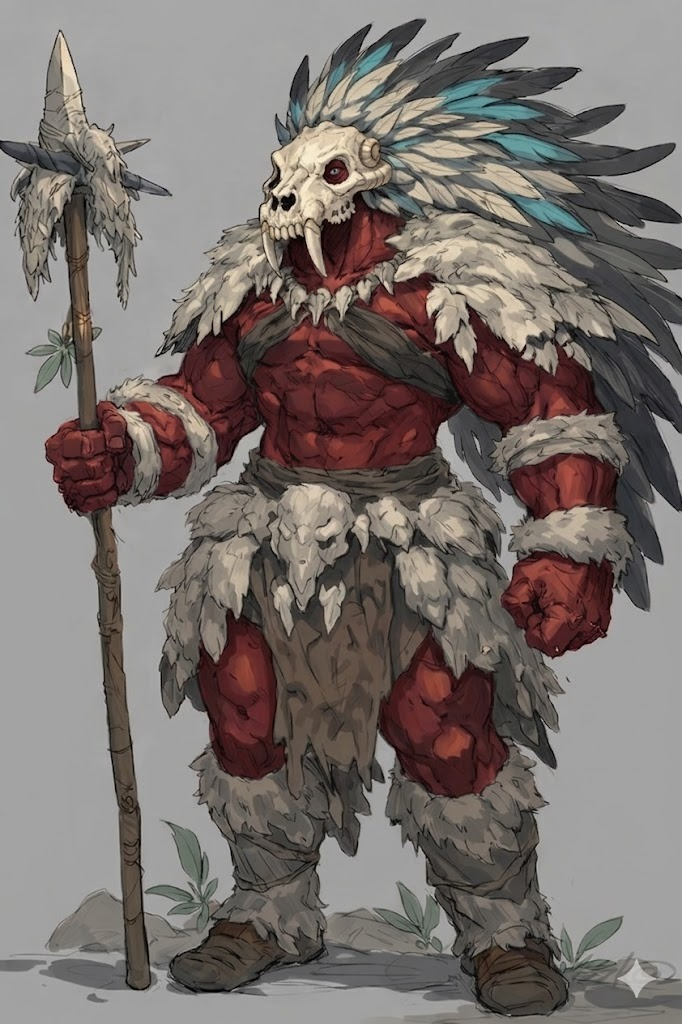
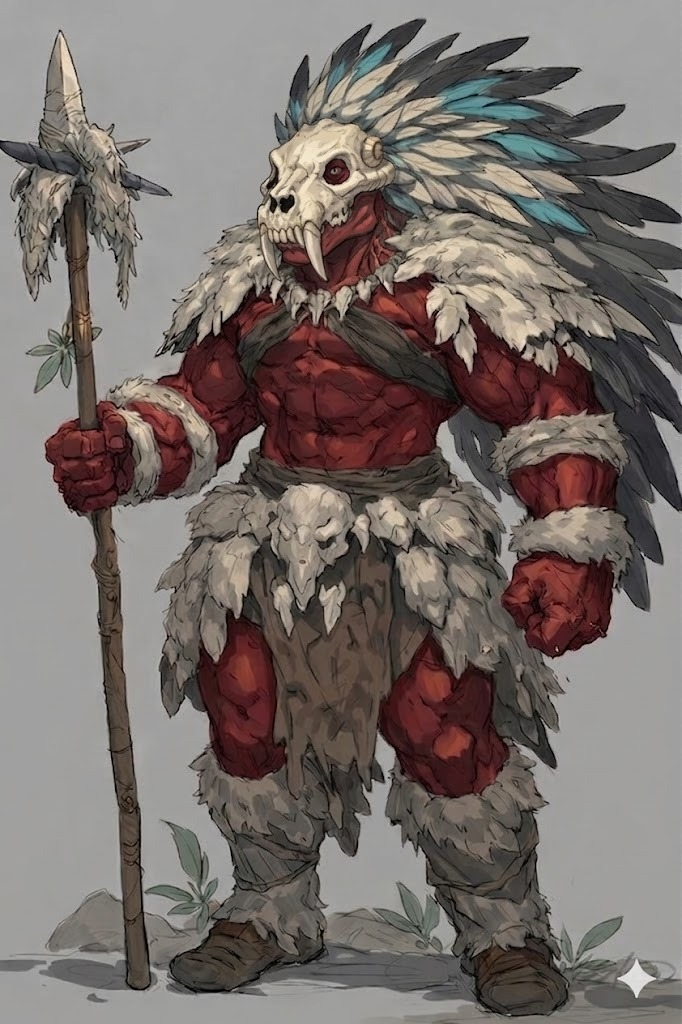
Update Eliseu and Mim sheets

Changed region(s): [[0.3695, 0.0625, 0.6158, 0.3125], [0.893, 0.9375, 0.9545, 0.9688]]

diff --git a/eliseu/ELISEU.md b/eliseu/ELISEU.md
@@ -36,60 +36,47 @@ Mas para buscar aquilo que lhe faltava. Amigos. Parceiros. Meio igual a meio. E 
 # 📌 **INFORMAÇÕES DO PERSONAGEM**
 
 **Nome:** Eliseu Babosa
-
 **[Raça](https://www.dandwiki.com/wiki/Minor_Angel_(5e_Race)):** Anjo Menor Puro
-
+**Tendência:** Leal e Caótico
+**Idiomas:** Comum, Celestial, Abissal
 **Antecedente:** Fazendeiro
-
-**Nível:** 5
-
+**Nível:** 6
 **[Classe](https://www.dandwiki.com/wiki/Healer_(5e_Class)#Renewal):** Curandeiro
-
 **Subclasse:** Ordem dos Cavaleiros Hospitalares
 
-**Tendência:** Leal e Caótico
-
-**Idiomas:** Comum, Celestial, Abissal
-
 **Bônus de Proficiência:** +3
-
 **Iniciativa:** +2
-
 **Deslocamento:** 9 m (caminhada), 9 m (voo)
-
 **CD de Magia:** 20 (+2 para Evocação)
-
 **Ataque Mágico:** +11
-
 **Pontos de Sorte:** 3/3
-
 **PO:** 597
 
 ---
 
 # 💠 **ATRIBUTOS**
 
-| Atributo     | Valor  | Modificador |
-| ------------ | ------ | ----------- |
-| Carisma      | **23** | **+6**      |
-| Constituição | **15** | **+2**      |
-| Destreza     | 15     | +2          |
-| Sabedoria    | 12     | +1          |
-| Inteligência | 12     | +1          |
-| Força        | 9      | -1          |
+| Atributo         | Valor  | Modificador | Salvaguarda |
+| ---------------- | ------ | ----------- | ----------- |
+| **Carisma**      | *23*   | *+6*        | *+9*        |
+| **Constituição** | *15*   | *+2*        | *+5*        |
+| Destreza         | 15     | +2          | +2          |
+| Sabedoria        | 12     | +1          | +1          |
+| Inteligência     | 12     | +1          | +1          |
+| Força            | 9      | -1          | -1          |
 
 ---
 
 # ❤ **PONTOS DE VIDA**
 
-* **PV Total:** 44 (**-5**) 
-* **PV Atuais:** 44
+* **PV Total:** 53 (**-5**) 
+* **PV Atuais:** 53
 
 ---
 
 # 🛡 **CLASSE DE ARMADURA**
 
-* **CA Total:** 20
+* **CA Total:** 19 (**-1**)
 
 ---
 

diff --git a/noah/NOAH.md b/noah/NOAH.md
@@ -23,17 +23,11 @@ Foi então que um dia, seu empregador, um misterioso patrono que havia ouvido fa
 # 📌 **INFORMAÇÕES DO PERSONAGEM**
 
 **Nome:** Noah Omar
-
 **Raça:** Humano
-
 **Nível:** 17
-
 **Classe:** Paladino
-
 **Origem:** Soldado
-
 **Idade:** 27
-
 **Altura:** 1,80 m
 
 ---
